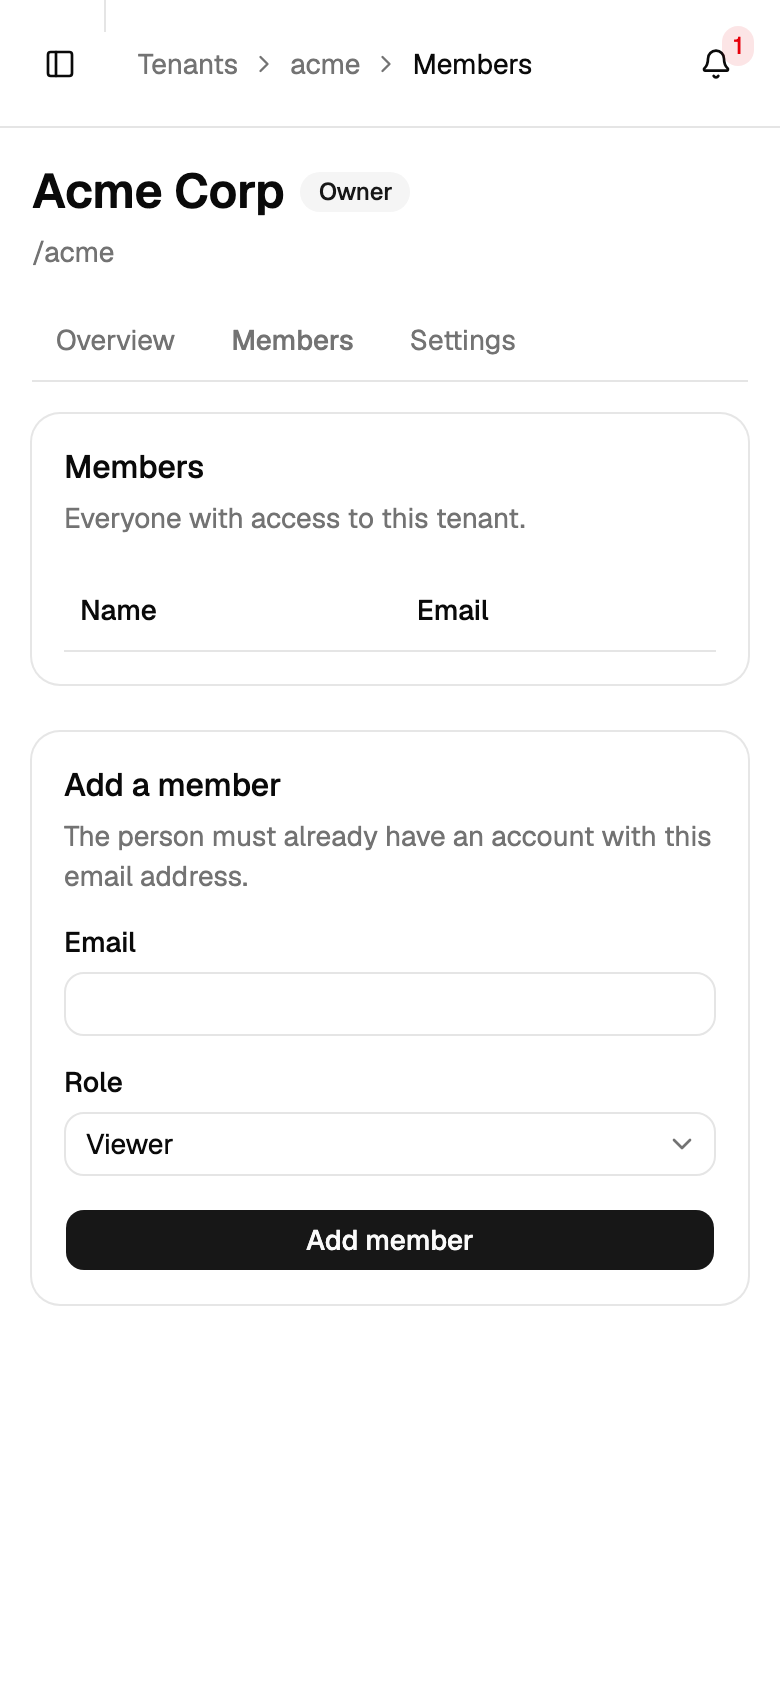
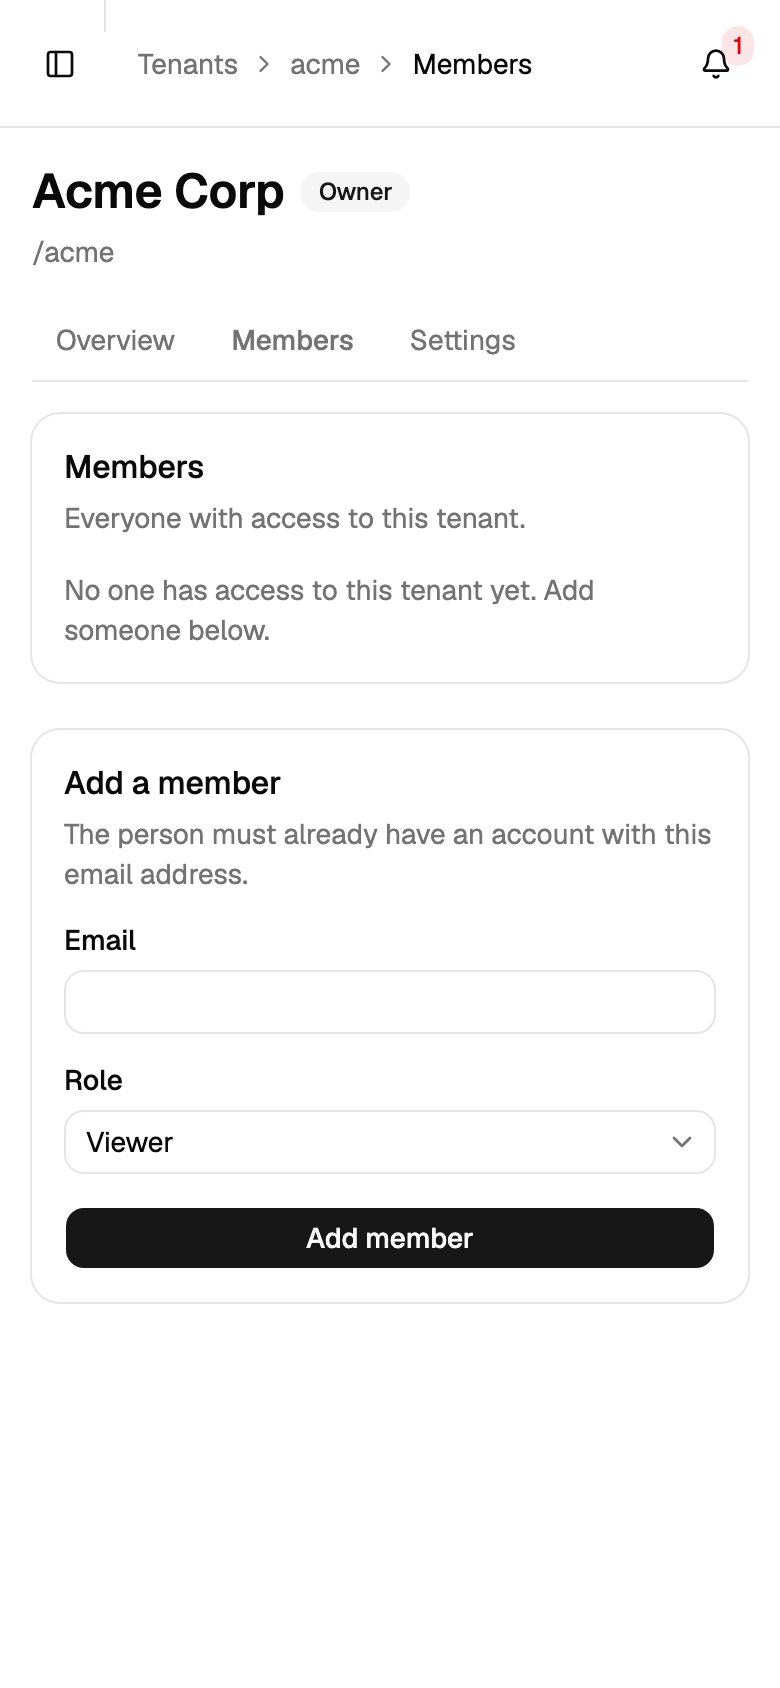
docs: close what Phase B settled and correct what it disproved
open-items: section 3 and section 8 closed, section 4's min-w-2xl claim
closed by measurement, and section 1 rewritten. Two of its three behaviours
are verified; the X-Forwarded-Proto one was MIS-STATED and is struck
through with the reason; the SSE one is not provable through the dev proxy.

The renders are re-shot after the fixes, so the committed screenshots show
the current UI rather than the defects they were taken to document. Visual
score re-run: 85 -> 95.

CLAUDE.md gains an end-to-end section, including the two harness traps that
each made a test measure the wrong thing, and why restartApi kills by
LISTEN socket rather than by process group.

Claude-Session: https://claude.ai/code/session_017YD2VpVGPXFNkCuKHKuCi2

diff --git a/docs/superpowers/decisions/2026-09-22-open-items.md b/docs/superpowers/decisions/2026-09-22-open-items.md
@@ -6,6 +6,12 @@ in the code exist; this file is what is NOT yet done.
 
 Ordered by what would cost most if forgotten.
 
+> **Updated 2026-09-22, end of Phase B.** §3, §4 and §8 are closed. §1 is mostly
+> closed: two of its three behaviours are now executed against a live backend, a third
+> was **mis-stated** and is corrected below, and the SSE one turned out not to be
+> provable through the Vite dev proxy. Evidence:
+> `2026-09-22-phase-b-evidence.md`; tests: `e2e/live/session.test.ts`.
+
 ---
 
 ## 1. Three behaviours have never actually been executed
@@ -13,22 +19,32 @@ Ordered by what would cost most if forgotten.
 Each is unit-tested and inferred end to end. All three need a live API and a real browser,
 which the test harness does not have. **This is the largest gap in Phase A.**
 
-- **A reload keeps you signed in.** The access token is memory-only, so every reload
-  starts unauthenticated and the root route's `beforeLoad` must restore the session before
-  any guard runs. Unit-tested in `src/pages/guards.test.tsx`.
-- **The SSE stream reconnects after a real backend restart.** The hook closes on error and
-  reconnects through `ensureSession()` under exponential backoff. Unit-tested with a mock
-  `EventSource`; jsdom has none of its own.
-- **`X-Forwarded-Proto` reaches Express** and drives the `secure` cookie flag and
-  `TRUST_PROXY`. The nginx directive is present and was verified by `curl -I`; the
-  behaviour behind it is inferred.
+- **A reload keeps you signed in.** ✅ **VERIFIED 2026-09-22** against a live
+  express-boilerplate — `e2e/live/session.test.ts`. The same test also pins **exactly one**
+  `/auth/refresh` per reload, which is the first assertion anywhere that `ensureSession()`'s
+  single-flight wrapper actually holds.
+- **The SSE stream reconnects after a real backend restart.** ⚠ **NOT PROVABLE HERE.**
+  Measured: a `curl -N` through the Vite dev proxy stays open after the API is killed — the
+  proxy does not propagate the upstream close. So `EventSource` never fires `error`,
+  `source.onerror` never runs, and the reconnect path is unreachable from a dev-server
+  browser. Confirmed page-side too: after a real restart there was no stream request, no
+  `/auth/refresh` and no console error. **This is a property of the proxy, not the hook.**
+  Proving it needs the nginx container. Kept as `test.fixme` in `e2e/live/session.test.ts`
+  with the evidence.
+- **~~`X-Forwarded-Proto` … drives the `secure` cookie flag~~ — THIS WAS WRONG.**
+  `isSecureCookieEnvironment()` (`auth.controller.ts`) returns
+  `getEnv().NODE_ENV === 'production'` and never reads `req.secure`, so **no request header
+  can change that flag**. `TRUST_PROXY` is real but governs `req.ip`, which the IP-keyed rate
+  limiters consume — a different mechanism entirely. The claim is asserted false in
+  `e2e/live/session.test.ts`. ✅ The cookie's `Path=/api/v1/auth`, `HttpOnly` and
+  `SameSite=Strict` — all previously inferred — **are** now verified.
 
 Also inferred: SSE actually streaming unbuffered (`proxy_buffering off` being present is
 not the same as watching chunks arrive), and the refresh cookie's `Path=/api/v1/auth`
 surviving the proxy, which needs a real `Set-Cookie` round trip.
 
-**How to close:** run the app against a live express-boilerplate and check the three by
-hand. Thirty minutes of work that no amount of unit testing substitutes for.
+**How to close what remains:** only the SSE reconnect is left, and it needs the nginx
+container rather than the dev proxy. `pnpm test:e2e:live` runs the rest.
 
 ## 2. The first cold CI run is the real test of the flake fix
 
@@ -38,7 +54,7 @@ Library's 1s default while 28 workers each spawn ~700ms). Fixed at the mechanism
 not with `retry`, which hides flakes rather than fixing them. The evidence is mechanistic;
 a cold CI box is the only honest test.
 
-## 3. No opened dropdown is axe-checked anywhere
+## 3. ~~No opened dropdown is axe-checked anywhere~~ — CLOSED 2026-09-22
 
 The a11y gate's overlay block covers a dialog and a sheet. It covers no open menu.
 
@@ -51,6 +67,11 @@ unrelated fix made the error states unreachable without opening the menu.
 Every overlay component now has a test that opens it, so the crash class is closed. Adding
 the opened menus to the axe gate is the cheaper guard against a repeat: bell, tenant
 switcher, user menu, theme toggle.
+
+**Done.** All four are axe-checked open in `src/tests/a11y.test.tsx`. They run through
+`expectNoViolationsIn`, which narrows the CONTEXT to the popup without disabling any rule —
+Base UI portals menus to `document.body`, so at document scope every open menu trips
+`region`. See CLAUDE.md's accessibility section.
 
 ## 4. Smaller gaps
 
@@ -72,7 +93,11 @@ switcher, user menu, theme toggle.
   Needs a browser.
 - **axe colour-contrast is disabled by jest-axe under jsdom.** A green axe run is not a
   contrast check.
-- **The member table's horizontal scroll** is reasoned CSS; jsdom cannot demonstrate it.
+- ~~**The member table's horizontal scroll** is reasoned CSS; jsdom cannot demonstrate
+  it.~~ **CLOSED.** Measured at 390×844: `scrollWidth 672` against `clientWidth 326`, page
+  itself not overflowing. It worked — but the scroll put the Actions column and the
+  last-owner sentence off-screen, so the members list now **stacks as cards** below the
+  mobile breakpoint and the table is desktop-only. `e2e/fixtures/members.test.ts`.
 - **`/auth/refresh` returning 403 or 419** leaves the user stuck signed-in-but-broken
   rather than bounced. Neither status is in the backend's emitted set, and the alternative
   is the false sign-outs that took two fix rounds to remove.
@@ -108,10 +133,19 @@ exact script in the policy, regenerated by a build step so it cannot rot.
 A wrong CSP is worse than none: it either breaks the theme script or teaches people to add
 `'unsafe-inline'`.
 
-## 8. Phase B is blocked on one decision
+## 8. ~~Phase B is blocked on one decision~~ — SETTLED 2026-09-22
 
 StyleSeed's bundled scaffold declares 19 `@radix-ui/react-*` packages, so its 32 primitives
 are Radix-based. Phase A is Base UI. They cannot both own `src/components/ui/`.
+
+**Settled: option 1, and the conflict turned out not to exist.** StyleSeed's gate chain
+references neither Radix nor `engine/components`; `ss-component` reads the project's own
+primitives; the 19 `@radix-ui/*` packages live only in a fresh-project scaffold. Base UI owns
+`src/components/ui/` permanently — see `STYLESEED.md` and
+`../specs/2026-09-22-phase-b-styleseed-design.md`. Playwright is installed and `ss-verify`
+has been run.
+
+The options as they were recorded:
 
 1. **Take StyleSeed's method, not its primitives** (recommended) — adopt `ss-setup`,
    `ss-tokens`, the compiled grammar and the `ss-lint`/`ss-a11y`/`ss-audit`/`ss-score`/

diff --git a/docs/superpowers/decisions/2026-09-22-phase-b-evidence.md b/docs/superpowers/decisions/2026-09-22-phase-b-evidence.md
@@ -164,7 +164,11 @@ intent. **That open item can be closed.**
 with `font-family` resolving to `"Geist Variable", sans-serif`. The skill's canonical silent
 failure — a webfont falling back to Times — is not happening.
 
-### New findings, visible only in pixels
+### New findings, visible only in pixels — all four since fixed
+
+Recorded here as found, with what was done about them. The renders in
+`2026-09-22-phase-b-renders/` are the **post-fix** ones; the descriptions below are what
+they replaced.
 
 1. **Desktop is under-filled.** At 1440×900 the content occupies roughly the upper-left: the
    lower third and the right ~30% are empty. The page reads sparse on a wide canvas.
@@ -177,6 +181,22 @@ failure — a webfont falling back to Times — is not happening.
 4. **Mobile hides the Actions column.** Leave/Remove sit off-screen behind the horizontal
    scroll. That is the deliberate consequence of `min-w-2xl`, but it means the primary per-row
    action is invisible on a phone until the user scrolls.
+
+**What was done (2026-09-22):**
+
+| Finding | Fix |
+| --- | --- |
+| Empty state was a bare header | `$slug.members.tsx` now says "No one has access to this tenant yet. Add someone below." — placed **after** the error branch, for the reason `notifications.tsx` records |
+| Desktop under-filled | `$slug.tsx` `max-w-4xl` → `max-w-4xl xl:max-w-6xl`, on **both** wrappers so the page does not jump width on load |
+| `h1` undersized at 1440px | `text-2xl` → `text-2xl lg:text-3xl` |
+| Mobile: Actions off-screen **and** owner sentence clipped | The list **stacks as cards** below the mobile breakpoint. One fix closes both, because both were consequences of the same horizontal scroll |
+
+The card path is chosen in JS with `useIsMobile()`, not a `hidden`/`md:hidden` CSS pair: a CSS
+pair renders both paths into the DOM, which means two role selects per member and two copies
+of one `reasonId` — a duplicate-id accessibility failure that reads as a regression.
+
+Covered by three new tests (`$slug.members.test.tsx` ×2, `a11y.test.tsx` ×1) and five e2e
+assertions in `e2e/fixtures/members.test.ts`. Unit tests: 249 → **251**.
 
 ### Visual score
 
@@ -193,8 +213,14 @@ failure — a webfont falling back to Times — is not happening.
 | Motion & interaction | 6/6 | — no mid-transition frame captured; nothing observed as wrong |
 | Coherence | 12/12 | — |
 
-85 is above the floor of 80 and **eight points below the code score of 93**. That gap is the
+85 was above the floor of 80 and **eight points below the code score of 93**. That gap is the
 whole argument for the visual gate: every point of it came from something source cannot show.
+
+**Re-scored after the fixes: 95 / 100.** Hierarchy & typography back to 15/16 (the `h1` now
+carries the canvas), Layout & rhythm to 11/12 (the content uses the width it has; the
+remaining point is that a two-row fixture will look sparse on any large monitor), States &
+a11y to 17/18 (empty state designed, mobile controls reachable, nothing clipped). The
+remaining point in States is contrast, which is still unmeasured rather than unaddressed.
 
 ### Dark theme
 
@@ -244,5 +270,6 @@ written, so **no machine-verified attach exists** — this document is the recor
   backend restart, and `X-Forwarded-Proto` reaches Express still need a live
   express-boilerplate. The harness mocks the API, so it cannot speak to any of them. Playwright
   being installed now makes that task cheaper.
-- **The four findings above are recorded, not fixed.** Fixing them is a separate, authorized
-  change; `ss-verify`'s default scope is inspection.
+- **Contrast is still unmeasured.** Seeing a render is not measuring it, and jsdom disables
+  the rule. A contrast pass is its own task.
+- **No mid-transition frame**, so the motion tell is still unassessed.

diff --git a/CLAUDE.md b/CLAUDE.md
@@ -137,6 +137,44 @@ is fine — just regenerate the lockfile in the same commit.
   nothing enforces it, and the cross-cutting suites under `src/tests/`
   (`a11y.test.tsx`) sit beside nothing by design.
 
+## End-to-end tests
+
+`pnpm test:e2e` (fixtures) and `pnpm test:e2e:live` (needs a backend). Playwright, two
+projects, and three conventions that are load-bearing rather than taste:
+
+- **Tests are `*.test.ts`, never Playwright's default `*.spec.ts`** —
+  `check-file/filename-blocklist` rejects `.spec.` repo-wide, so the default fails lint on
+  the first file. `playwright.config.ts` sets `testMatch` accordingly.
+- **`vitest.config.ts` carries an explicit `exclude` for `e2e/**`.** Vitest's default
+  `include` is `**/*.{test,spec}.*`, so without it Vitest collects the Playwright specs and
+  runs them under jsdom.
+- **`e2e/` is typed-linted via its own `tsconfig.json`** and `projectService`, not exempted
+  with `disableTypeChecked` the way the root configs are. `playwright.config.ts` itself is a
+  root config and is linted with those.
+
+**`fixtures`** drives `e2e/harness/` — the real router and real CSS with MSW answering the
+same fixtures `src/tests/a11y.test.tsx` uses, so it needs no backend. It exists for the
+checks jsdom cannot make, because jsdom has no layout: whether the webfont actually resolved,
+whether anything overflows the viewport at 390px, whether a state renders as more than a bare
+header. `?state=loaded|empty|error|loading|soleowner` picks the members response.
+
+Two harness traps, both of which made tests measure the wrong thing once already: answering
+the SSE stream with `204` looks to the hook exactly like a dropped connection and sends the
+page into a refresh-then-redirect that a test will race; and **any endpoint left unmocked
+falls through to the real backend** (`onUnhandledRequest: 'bypass'`) and 401s. If a fixtures
+test starts landing on `/login`, that is why.
+
+**`live`** needs a real express-boilerplate on `:4040` and its docker services, and is skipped
+unless `E2E_LIVE=1`. Accounts are registered and verified through mailpit — login stays 401
+until the address is verified, and the link only exists in the email. Each run uses a **fresh
+address**, because the login limiter is keyed `ip:email` at five attempts per fifteen minutes
+and a fixed address would rate-limit every rerun.
+
+`restartApi()` kills by port with `-sTCP:LISTEN` and escalates SIGTERM→SIGKILL. Both details
+are load-bearing: `pnpm dev` is `tsx watch`, whose CHILD holds the port and survives a
+group SIGTERM, and without `-sTCP:LISTEN` lsof also lists the Vite proxy as a client of that
+port and the kill takes the dev server down too.
+
 ## Accessibility
 
 `src/tests/a11y.test.tsx` is a gate, not a smoke test: every routed page, plus

diff --git a/docs/superpowers/plans/2026-09-22-phase-b-styleseed.md b/docs/superpowers/plans/2026-09-22-phase-b-styleseed.md
@@ -827,3 +827,4 @@ document is not a false account of the work. Evidence for all of them is in
 | 5 | Theme toggle opened on `/dashboard` | Opened inside the mobile sheet at width 500 | `ThemeToggle` is not in the desktop shell |
 | 6 | — | Added a per-test `menuitem` count assertion | A menu that opened empty would otherwise pass axe while grading nothing |
 | 6 | `ss-verify` out of scope, no Playwright, `package.json` untouched | Playwright 1.63.0 installed; gate run at 1440×900 and 390×844 | Reversed by the user after the rest landed. The gate found a defect code review had only inferred, and verified `min-w-2xl`'s horizontal scroll, closing open-items §4. Visual score 85 against a code score of 93 |
+| — | (not in the plan) | The four visual findings fixed; a Playwright e2e suite added; open-items §1 executed against a live backend | Follow-on work the user asked for after the plan was complete. Notable: open-items §1.3 was **mis-stated** — `X-Forwarded-Proto` does not drive the `secure` flag, `NODE_ENV` does — and the SSE reconnect proved unverifiable through the Vite dev proxy, which does not propagate the upstream close |

diff --git a/STYLESEED.md b/STYLESEED.md
@@ -138,10 +138,13 @@ the bundle, the manifest and the palette, so commit those together.
 gap is what source cannot show. Renders and findings:
 `docs/superpowers/decisions/2026-09-22-phase-b-evidence.md`.
 
-Playwright is installed but **no committed file uses it**. The harness is reproduced in that
-document rather than committed: a root `.mjs` and a `src/harness.tsx` would both need changes
-to the type-aware lint config to pass `eslint --max-warnings 0`, and that config is tuned
-deliberately. Re-running the gate means recreating the harness from the doc.
+Playwright now has a committed consumer: the e2e suite in `e2e/`, run with `pnpm test:e2e`.
+Its `fixtures` project turns the visual gate's findings into standing assertions — webfont
+loaded, nothing overflowing at 390px, the empty and error states rendering as more than a bare
+header — so a regression fails a test rather than waiting for the next screenshot. See
+CLAUDE.md's end-to-end section for the conventions.
+
+All four findings the visual gate produced have since been fixed; re-scored **95/100**.
 
 ## Accessibility
 
